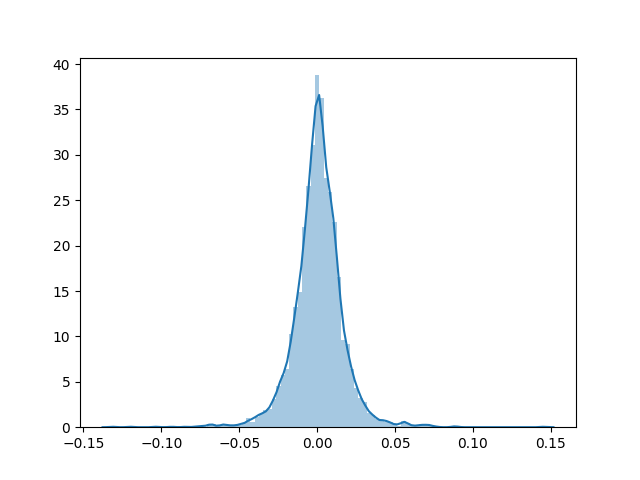
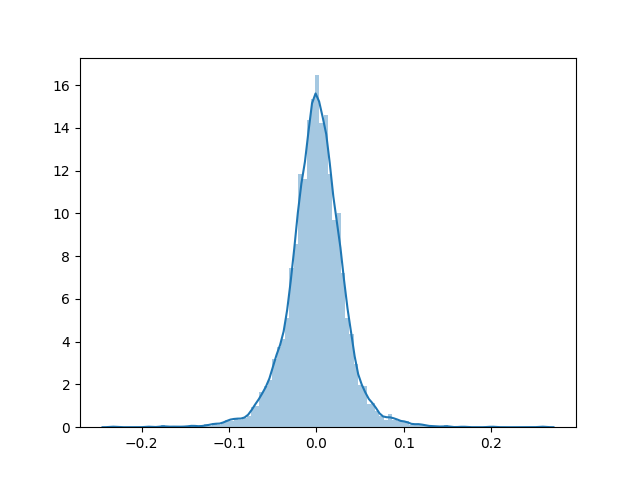
Added figure1.2

diff --git a/src/analysis/pres1.py b/src/analysis/pres1.py
@@ -1,5 +1,6 @@
 import sqlite3
 from random import shuffle
+import json
 
 import numpy as np
 import matplotlib
@@ -23,7 +24,7 @@ with sqlite3.connect(settings.DATA_DIRECTORY / settings.DATABASE_NAME) as db:
     print(len(rows))
 
     symbols = [row[0] for row in rows]
-    meta = [row[1] for row in rows]
+    meta = [json.loads(row[1]) for row in rows]
 
     data = dict()
 
@@ -57,3 +58,13 @@ WHERE symbol == ? ORDER BY date;
 
 #    plt.tight_layout()
     plt.savefig('../figures/figure1-1.png')
+
+    plt.clf()
+
+    log_return = data[sym][0]
+    x_norm2 = data[sym][3]
+
+    seaborn.distplot(x_norm2, bins=100, color='C1')
+    plt.savefig('../figures/figure1-2.png')
+
+    print(meta[0])

diff --git a/README.md b/README.md
@@ -32,6 +32,10 @@ For a given stock, the following preprocessing steps are applied:
 
 <img src="figures/figure1-1.png" width=450 height=450>
 
+### Figure 1.2: "Gaussianized" log-returns
+
+<img src="figures/figure1-2.png" width=450 height=450>
+
 ## Road map
 
 - [x] PyTorch implementation of Neuralsort
